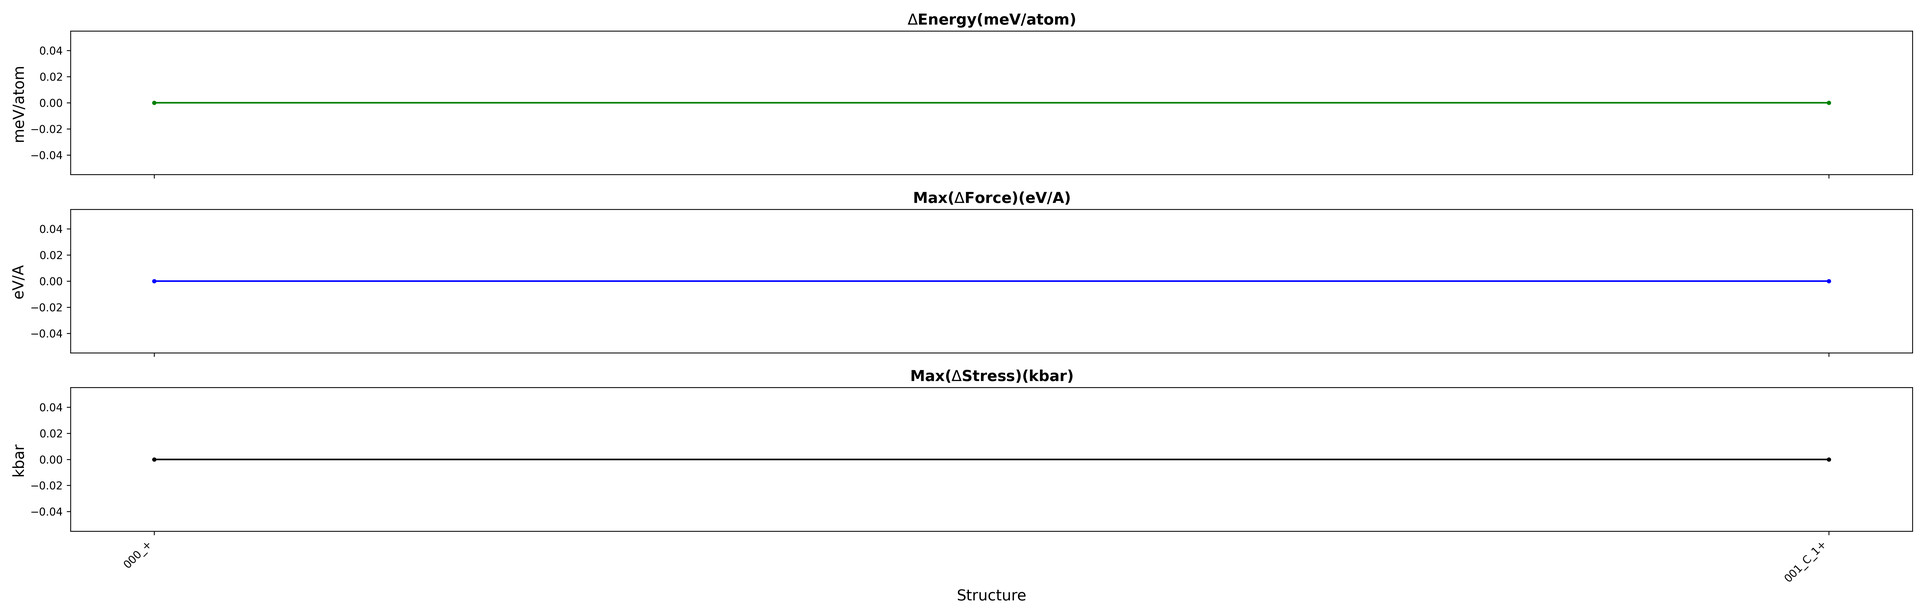
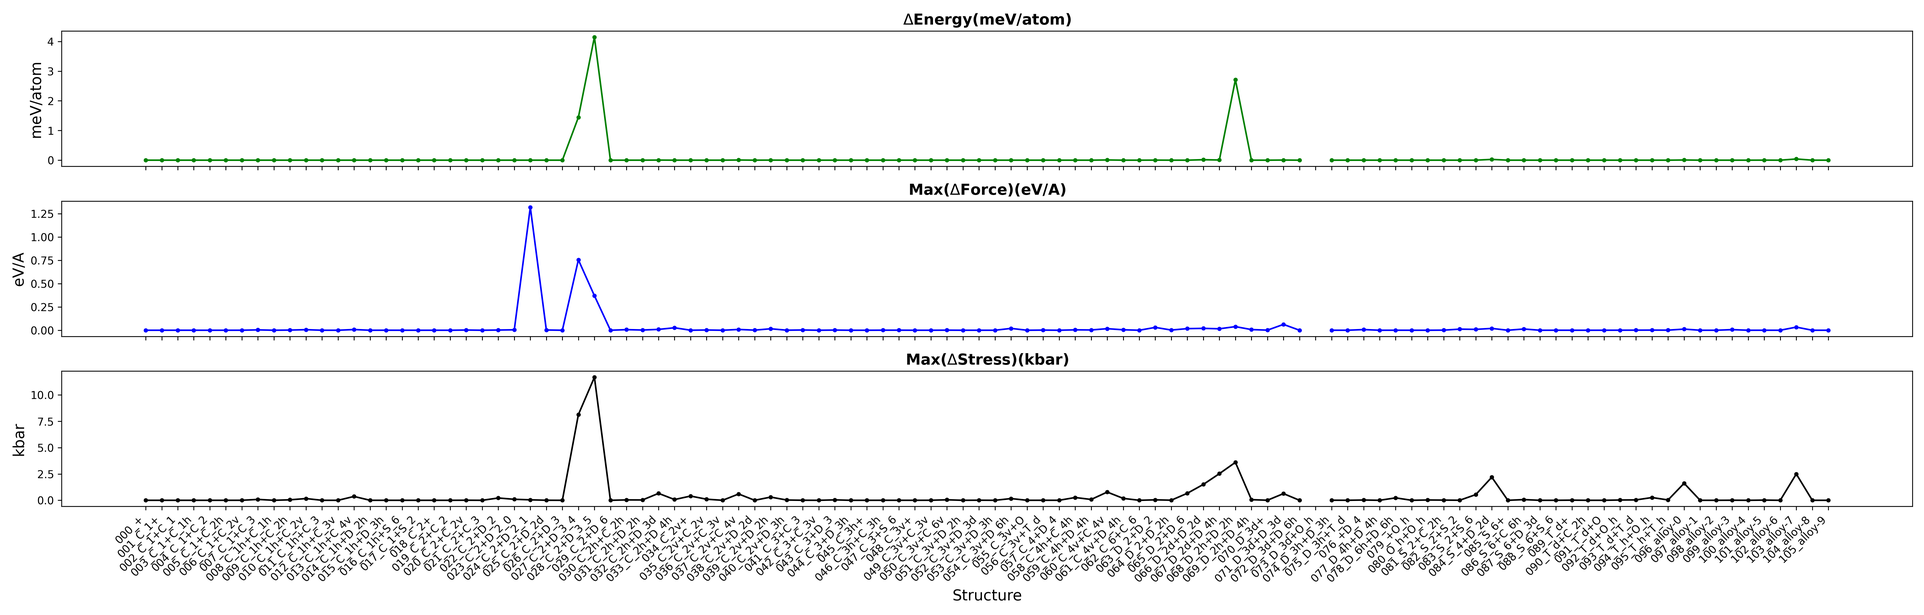
update alloy symmetry

diff --git a/results/alloy/symmetry.html b/results/alloy/symmetry.html
@@ -100,8 +100,8 @@
 <body>
 	<table id="keys">
 		<tr><td><strong>Test_date</strong></td><td>:</td><td>2023-12-26</td></tr>
-		<tr><td><strong>Version</strong></td><td>:</td><td>v3.5.0(64201d7 (Mon Dec 25 11:16:53 2023 +0800))</td></tr>
-		<tr><td><strong>Job_address</strong></td><td>:</td><td><a href="https://labs.dp.tech/projects/abacustest/?request=GET%3A%2Fapplications%2Fabacustest%2Fjobs%2Fsched-abacustest-alloy-symm-ca729d">link</a></td></tr>
+		<tr><td><strong>Version</strong></td><td>:</td><td>v3.5.0(f44ade3 (Tue Dec 26 10:13:45 2023 +0800))</td></tr>
+		<tr><td><strong>Job_address</strong></td><td>:</td><td><a href="https://labs.dp.tech/projects/abacustest/?request=GET%3A%2Fapplications%2Fabacustest%2Fjobs%2Fsched-abacustest-alloy-symm-fed85d">link</a></td></tr>
 		<tr><td><strong>Targets</strong></td><td>:</td><td>symmetry on VS symmetry off</td></tr>
 		<tr><td><strong>Datasets</strong></td><td>:</td><td><a href="https://labs.dp.tech/projects/abacustest/?request=GET%3A%2Fapplications%2Fabacustest%2Fdatasets%2Falloy">link</a></td></tr>
 		<tr><td><strong>Properties</strong></td><td>:</td><td>energy/force/stress/irreducible k-point/point group</td></tr>
@@ -119,7 +119,7 @@
     </div>
     <div class="imagetitle">Figure 1. The energy/force/stress difference between symmetry on and off.</div>
 	<div class="tabletitle">Table 1. the K points and irreducible K points, and point groups and point group in space groups, as well as the Energy/Force/Virial/Stress difference with closed symmetry analysis.</div>
-	<div class="head2">Pass/Total: <font color="green">2/2 (100.00%)</font></div>
+	<div class="head2">Pass/Total: <font color="red">101/106 (95.28%)</font></div>
 
     <table border="2px">
         <tbody>
@@ -130,22 +130,22 @@
             </tr>
         <tr>
                 <td>NormalEnd</td>
-                <td style="color:green">2/2</td> 
+                <td style="color:red">105/106</td> 
                 <td>bool(x)</td>
             </tr>
         <tr>
                 <td>&Delta;E/atom(meV)</td>
-                <td style="color:green">2/2</td> 
+                <td style="color:red">102/105</td> 
                 <td>x < 1</td>
             </tr>
         <tr>
                 <td>max(&Delta;F)(eV/A)</td>
-                <td style="color:green">2/2</td> 
+                <td style="color:red">102/105</td> 
                 <td>x < 0.1</td>
             </tr>
         <tr>
                 <td>max(&Delta;S)(kbar)</td>
-                <td style="color:green">2/2</td> 
+                <td style="color:red">104/105</td> 
                 <td>x < 10</td>
             </tr>
         </tbody>
@@ -156,6 +156,110 @@
 		<thead><tr><th>example</th><th>NormalEnd</th><th>&Delta;E/atom(meV)</th><th>max(&Delta;F)(eV/A)</th><th>max(&Delta;S)(kbar)</th><th>max(&Delta;V)(eV/atom)</th><th>KPoints</th><th>IBZK</th><th>PointGroup</th><th>PointGroupInSpaceGroup</th></tr></thead>
 		<tbody>			<tr><td>000_+</td><td><font color="green">True</font></td><td><font color="green">0.00e+00</font></td><td><font color="green">0.00e+00</font></td><td><font color="green">0.00e+00</font></td><td>0.00e+00</td><td>125</td><td>63</td><td>C_1</td><td>C_1</td></tr>
 			<tr><td>001_C_1+</td><td><font color="green">True</font></td><td><font color="green">0.00e+00</font></td><td><font color="green">0.00e+00</font></td><td><font color="green">0.00e+00</font></td><td>0.00e+00</td><td>64</td><td>36</td><td>C_1</td><td>C_1</td></tr>
+			<tr><td>002_C_1+C_1</td><td><font color="green">True</font></td><td><font color="green">4.41e-08</font></td><td><font color="green">1.73e-04</font></td><td><font color="green">2.03e-04</font></td><td>1.53e-06</td><td>125</td><td>63</td><td>C_1</td><td>C_1</td></tr>
+			<tr><td>003_C_1+C_1h</td><td><font color="green">True</font></td><td><font color="green">2.27e-10</font></td><td><font color="green">0.00e+00</font></td><td><font color="green">5.80e-09</font></td><td>7.40e-11</td><td>60</td><td>24</td><td>C_1</td><td>C_1h</td></tr>
+			<tr><td>004_C_1+C_2</td><td><font color="green">True</font></td><td><font color="green">2.27e-10</font></td><td><font color="green">0.00e+00</font></td><td><font color="green">1.00e-10</font></td><td>1.52e-12</td><td>96</td><td>52</td><td>C_1</td><td>C_1</td></tr>
+			<tr><td>005_C_1+C_2h</td><td><font color="green">True</font></td><td><font color="green">5.68e-11</font></td><td><font color="green">0.00e+00</font></td><td><font color="green">0.00e+00</font></td><td>0.00e+00</td><td>96</td><td>52</td><td>C_1</td><td>C_1</td></tr>
+			<tr><td>006_C_1+C_2v</td><td><font color="green">True</font></td><td><font color="green">2.19e-06</font></td><td><font color="green">1.70e-04</font></td><td><font color="green">1.94e-03</font></td><td>2.92e-05</td><td>36</td><td>15</td><td>C_1</td><td>C_1h</td></tr>
+			<tr><td>007_C_1+C_3</td><td><font color="green">True</font></td><td><font color="green">3.50e-05</font></td><td><font color="green">3.85e-03</font></td><td><font color="green">0.08</font></td><td>6.53e-04</td><td>64</td><td>14</td><td>C_1</td><td>C_3</td></tr>
+			<tr><td>008_C_1h+C_1h</td><td><font color="green">True</font></td><td><font color="green">1.71e-10</font></td><td><font color="green">0.00e+00</font></td><td><font color="green">0.00e+00</font></td><td>0.00e+00</td><td>54</td><td>28</td><td>C_1</td><td>C_1</td></tr>
+			<tr><td>009_C_1h+C_2h</td><td><font color="green">True</font></td><td><font color="green">6.62e-07</font></td><td><font color="green">1.75e-03</font></td><td><font color="green">0.05</font></td><td>5.22e-04</td><td>64</td><td>30</td><td>C_1h</td><td>C_1h</td></tr>
+			<tr><td>010_C_1h+C_2v</td><td><font color="green">True</font></td><td><font color="green">4.81e-05</font></td><td><font color="green">5.94e-03</font></td><td><font color="green">0.16</font></td><td>1.76e-03</td><td>98</td><td>32</td><td>C_1h</td><td>C_2v</td></tr>
+			<tr><td>011_C_1h+C_3</td><td><font color="green">True</font></td><td><font color="green">0.00e+00</font></td><td><font color="green">0.00e+00</font></td><td><font color="green">0.00e+00</font></td><td>0.00e+00</td><td>72</td><td>40</td><td>C_1</td><td>C_1</td></tr>
+			<tr><td>012_C_1h+C_3v</td><td><font color="green">True</font></td><td><font color="green">0.00e+00</font></td><td><font color="green">0.00e+00</font></td><td><font color="green">0.00e+00</font></td><td>0.00e+00</td><td>64</td><td>36</td><td>C_1</td><td>C_1</td></tr>
+			<tr><td>013_C_1h+C_4v</td><td><font color="green">True</font></td><td><font color="green">4.62e-05</font></td><td><font color="green">7.37e-03</font></td><td><font color="green">0.36</font></td><td>4.40e-03</td><td>48</td><td>12</td><td>C_1h</td><td>C_4v</td></tr>
+			<tr><td>014_C_1h+D_2h</td><td><font color="green">True</font></td><td><font color="green">0.00e+00</font></td><td><font color="green">0.00e+00</font></td><td><font color="green">0.00e+00</font></td><td>0.00e+00</td><td>75</td><td>38</td><td>C_1h</td><td>C_1h</td></tr>
+			<tr><td>015_C_1h+D_3h</td><td><font color="green">True</font></td><td><font color="green">5.05e-05</font></td><td><font color="green">2.88e-04</font></td><td><font color="green">7.68e-04</font></td><td>1.10e-05</td><td>36</td><td>12</td><td>C_1</td><td>C_2v</td></tr>
+			<tr><td>016_C_1h+S_6</td><td><font color="green">True</font></td><td><font color="green">8.55e-05</font></td><td><font color="green">4.33e-06</font></td><td><font color="green">2.88e-05</font></td><td>4.24e-07</td><td>36</td><td>15</td><td>C_1h</td><td>C_1h</td></tr>
+			<tr><td>017_C_1+S_2</td><td><font color="green">True</font></td><td><font color="green">1.14e-10</font></td><td><font color="green">0.00e+00</font></td><td><font color="green">1.00e-10</font></td><td>1.15e-12</td><td>100</td><td>51</td><td>C_1</td><td>C_1</td></tr>
+			<tr><td>018_C_2+</td><td><font color="green">True</font></td><td><font color="green">1.14e-10</font></td><td><font color="green">0.00e+00</font></td><td><font color="green">1.00e-10</font></td><td>1.03e-12</td><td>64</td><td>36</td><td>C_1</td><td>C_1</td></tr>
+			<tr><td>019_C_2+C_2</td><td><font color="green">True</font></td><td><font color="green">3.43e-07</font></td><td><font color="green">1.00e-10</font></td><td><font color="green">7.39e-08</font></td><td>6.69e-10</td><td>125</td><td>63</td><td>C_1</td><td>C_1</td></tr>
+			<tr><td>020_C_2+C_2v</td><td><font color="green">True</font></td><td><font color="green">9.44e-05</font></td><td><font color="green">2.14e-03</font></td><td><font color="green">7.55e-03</font></td><td>1.91e-04</td><td>27</td><td>8</td><td>C_2</td><td>C_2v</td></tr>
+			<tr><td>021_C_2+C_3</td><td><font color="green">True</font></td><td><font color="green">2.27e-10</font></td><td><font color="green">0.00e+00</font></td><td><font color="green">0.00e+00</font></td><td>0.00e+00</td><td>125</td><td>63</td><td>C_1</td><td>C_1</td></tr>
+			<tr><td>022_C_2+D_2</td><td><font color="green">True</font></td><td><font color="green">4.00e-05</font></td><td><font color="green">2.17e-03</font></td><td><font color="green">0.22</font></td><td>1.72e-03</td><td>75</td><td>26</td><td>C_2</td><td>C_2</td></tr>
+			<tr><td>023_C_2+D_2_0</td><td><font color="green">True</font></td><td><font color="green">9.79e-05</font></td><td><font color="green">4.65e-03</font></td><td><font color="green">0.10</font></td><td>7.52e-04</td><td>486</td><td>164</td><td>C_2</td><td>C_2</td></tr>
+			<tr><td>024_C_2+D_2_1</td><td><font color="green">True</font></td><td><font color="green">4.12e-04</font></td><td><font color="red">1.32</font></td><td><font color="green">0.04</font></td><td>3.89e-04</td><td>486</td><td>100</td><td>C_2</td><td>D_2</td></tr>
+			<tr><td>025_C_2+D_2d</td><td><font color="green">True</font></td><td><font color="green">1.87e-06</font></td><td><font color="green">2.49e-03</font></td><td><font color="green">4.51e-03</font></td><td>5.73e-05</td><td>48</td><td>12</td><td>C_2</td><td>D_2d</td></tr>
+			<tr><td>026_C_2+D_3</td><td><font color="green">True</font></td><td><font color="green">3.64e-09</font></td><td><font color="green">0.00e+00</font></td><td><font color="green">4.00e-10</font></td><td>6.03e-12</td><td>64</td><td>36</td><td>C_1</td><td>C_1</td></tr>
+			<tr><td>027_C_2+D_3_4</td><td><font color="green">True</font></td><td><font color="red">1.44</font></td><td><font color="red">0.76</font></td><td><font color="green">8.13</font></td><td>0.08</td><td>320</td><td>93</td><td>C_2</td><td>C_2</td></tr>
+			<tr><td>028_C_2+D_3_5</td><td><font color="green">True</font></td><td><font color="red">4.14</font></td><td><font color="red">0.37</font></td><td><font color="red">11.67</font></td><td>0.10</td><td>486</td><td>142</td><td>C_2</td><td>C_2</td></tr>
+			<tr><td>029_C_2+D_6</td><td><font color="green">True</font></td><td><font color="green">0.00e+00</font></td><td><font color="green">0.00e+00</font></td><td><font color="green">0.00e+00</font></td><td>0.00e+00</td><td>75</td><td>38</td><td>C_1</td><td>C_1</td></tr>
+			<tr><td>030_C_2h+C_2h</td><td><font color="green">True</font></td><td><font color="green">3.78e-05</font></td><td><font color="green">6.23e-03</font></td><td><font color="green">0.04</font></td><td>5.79e-04</td><td>45</td><td>15</td><td>C_2h</td><td>C_2h</td></tr>
+			<tr><td>031_C_2h+D_2h</td><td><font color="green">True</font></td><td><font color="green">2.24e-05</font></td><td><font color="green">2.18e-03</font></td><td><font color="green">0.03</font></td><td>4.20e-04</td><td>64</td><td>21</td><td>C_2h</td><td>D_2h</td></tr>
+			<tr><td>032_C_2h+D_3d</td><td><font color="green">True</font></td><td><font color="green">3.36e-03</font></td><td><font color="green">9.11e-03</font></td><td><font color="green">0.66</font></td><td>6.73e-03</td><td>80</td><td>42</td><td>C_2h</td><td>D_3d</td></tr>
+			<tr><td>033_C_2h+D_4h</td><td><font color="green">True</font></td><td><font color="green">9.84e-05</font></td><td><font color="green">0.03</font></td><td><font color="green">0.07</font></td><td>1.02e-03</td><td>75</td><td>12</td><td>C_2h</td><td>D_4h</td></tr>
+			<tr><td>034_C_2v+</td><td><font color="green">True</font></td><td><font color="green">1.67e-04</font></td><td><font color="green">1.80e-04</font></td><td><font color="green">0.40</font></td><td>4.81e-03</td><td>64</td><td>30</td><td>C_1h</td><td>C_1h</td></tr>
+			<tr><td>035_C_2v+C_2v</td><td><font color="green">True</font></td><td><font color="green">6.50e-05</font></td><td><font color="green">2.45e-03</font></td><td><font color="green">0.10</font></td><td>8.85e-04</td><td>80</td><td>21</td><td>C_2v</td><td>C_2v</td></tr>
+			<tr><td>036_C_2v+C_3v</td><td><font color="green">True</font></td><td><font color="green">6.82e-10</font></td><td><font color="green">0.00e+00</font></td><td><font color="green">1.00e-10</font></td><td>1.21e-12</td><td>72</td><td>38</td><td>C_1</td><td>C_1</td></tr>
+			<tr><td>037_C_2v+C_4v</td><td><font color="green">True</font></td><td><font color="green">5.51e-03</font></td><td><font color="green">8.43e-03</font></td><td><font color="green">0.60</font></td><td>8.71e-03</td><td>75</td><td>24</td><td>C_2v</td><td>C_4v</td></tr>
+			<tr><td>038_C_2v+D_2d</td><td><font color="green">True</font></td><td><font color="green">5.48e-05</font></td><td><font color="green">1.11e-03</font></td><td><font color="green">1.33e-03</font></td><td>1.71e-05</td><td>32</td><td>12</td><td>C_2v</td><td>D_2d</td></tr>
+			<tr><td>039_C_2v+D_2h</td><td><font color="green">True</font></td><td><font color="green">2.29e-03</font></td><td><font color="green">0.02</font></td><td><font color="green">0.30</font></td><td>2.94e-03</td><td>80</td><td>33</td><td>C_2v</td><td>D_2h</td></tr>
+			<tr><td>040_C_2v+D_3h</td><td><font color="green">True</font></td><td><font color="green">6.35e-06</font></td><td><font color="green">5.72e-04</font></td><td><font color="green">0.03</font></td><td>3.68e-04</td><td>64</td><td>30</td><td>C_1h</td><td>C_1h</td></tr>
+			<tr><td>041_C_3+C_3</td><td><font color="green">True</font></td><td><font color="green">4.84e-05</font></td><td><font color="green">2.64e-03</font></td><td><font color="green">4.91e-03</font></td><td>5.26e-05</td><td>64</td><td>14</td><td>C_3</td><td>C_3</td></tr>
+			<tr><td>042_C_3+C_3v</td><td><font color="green">True</font></td><td><font color="green">0.00e+00</font></td><td><font color="green">0.00e+00</font></td><td><font color="green">0.00e+00</font></td><td>0.00e+00</td><td>196</td><td>99</td><td>C_1</td><td>C_1</td></tr>
+			<tr><td>043_C_3+D_3</td><td><font color="green">True</font></td><td><font color="green">4.27e-06</font></td><td><font color="green">1.74e-03</font></td><td><font color="green">0.04</font></td><td>4.07e-04</td><td>64</td><td>13</td><td>C_3</td><td>D_3</td></tr>
+			<tr><td>044_C_3+D_3h</td><td><font color="green">True</font></td><td><font color="green">6.82e-10</font></td><td><font color="green">0.00e+00</font></td><td><font color="green">1.00e-10</font></td><td>1.22e-12</td><td>196</td><td>99</td><td>C_1</td><td>C_1</td></tr>
+			<tr><td>045_C_3h+</td><td><font color="green">True</font></td><td><font color="green">0.00e+00</font></td><td><font color="green">0.00e+00</font></td><td><font color="green">0.00e+00</font></td><td>0.00e+00</td><td>64</td><td>36</td><td>C_1h</td><td>C_1h</td></tr>
+			<tr><td>046_C_3h+C_3h</td><td><font color="green">True</font></td><td><font color="green">2.82e-07</font></td><td><font color="green">6.41e-04</font></td><td><font color="green">1.96e-03</font></td><td>2.60e-05</td><td>45</td><td>15</td><td>C_1h</td><td>C_1h</td></tr>
+			<tr><td>047_C_3+S_6</td><td><font color="green">True</font></td><td><font color="green">1.65e-04</font></td><td><font color="green">7.00e-04</font></td><td><font color="green">1.62e-03</font></td><td>1.57e-05</td><td>120</td><td>42</td><td>C_1</td><td>C_1h</td></tr>
+			<tr><td>048_C_3v+</td><td><font color="green">True</font></td><td><font color="green">4.18e-08</font></td><td><font color="green">0.00e+00</font></td><td><font color="green">2.68e-07</font></td><td>2.24e-09</td><td>125</td><td>63</td><td>C_1</td><td>C_1</td></tr>
+			<tr><td>049_C_3v+C_3v</td><td><font color="green">True</font></td><td><font color="green">1.24e-05</font></td><td><font color="green">7.49e-05</font></td><td><font color="green">4.85e-03</font></td><td>8.66e-05</td><td>64</td><td>13</td><td>C_3v</td><td>C_3v</td></tr>
+			<tr><td>050_C_3v+C_6v</td><td><font color="green">True</font></td><td><font color="green">1.01e-04</font></td><td><font color="green">8.83e-04</font></td><td><font color="green">0.05</font></td><td>4.95e-04</td><td>75</td><td>10</td><td>C_3v</td><td>C_6v</td></tr>
+			<tr><td>051_C_3v+D_2h</td><td><font color="green">True</font></td><td><font color="green">7.96e-10</font></td><td><font color="green">0.00e+00</font></td><td><font color="green">1.00e-10</font></td><td>1.05e-12</td><td>125</td><td>63</td><td>C_1</td><td>C_1</td></tr>
+			<tr><td>052_C_3v+D_3d</td><td><font color="green">True</font></td><td><font color="green">3.01e-05</font></td><td><font color="green">5.51e-05</font></td><td><font color="green">8.96e-03</font></td><td>1.60e-04</td><td>64</td><td>13</td><td>C_3v</td><td>C_3v</td></tr>
+			<tr><td>053_C_3v+D_3h</td><td><font color="green">True</font></td><td><font color="green">3.64e-09</font></td><td><font color="green">2.00e-10</font></td><td><font color="green">6.00e-10</font></td><td>1.07e-11</td><td>72</td><td>40</td><td>C_1</td><td>C_1</td></tr>
+			<tr><td>054_C_3v+D_6h</td><td><font color="green">True</font></td><td><font color="green">1.29e-04</font></td><td><font color="green">0.02</font></td><td><font color="green">0.16</font></td><td>2.88e-03</td><td>72</td><td>40</td><td>C_1</td><td>S_2</td></tr>
+			<tr><td>055_C_3v+O</td><td><font color="green">True</font></td><td><font color="green">2.77e-06</font></td><td><font color="green">1.85e-05</font></td><td><font color="green">1.03e-03</font></td><td>1.78e-05</td><td>64</td><td>13</td><td>C_3v</td><td>C_3v</td></tr>
+			<tr><td>056_C_3v+T_d</td><td><font color="green">True</font></td><td><font color="green">3.25e-05</font></td><td><font color="green">1.47e-03</font></td><td><font color="green">2.36e-03</font></td><td>2.20e-05</td><td>125</td><td>10</td><td>C_3v</td><td>T_d</td></tr>
+			<tr><td>057_C_4+D_4</td><td><font color="green">True</font></td><td><font color="green">3.00e-08</font></td><td><font color="green">7.79e-06</font></td><td><font color="green">2.30e-03</font></td><td>3.42e-05</td><td>64</td><td>13</td><td>C_4</td><td>D_4</td></tr>
+			<tr><td>058_C_4h+C_4h</td><td><font color="green">True</font></td><td><font color="green">1.47e-05</font></td><td><font color="green">4.22e-03</font></td><td><font color="green">0.26</font></td><td>2.34e-03</td><td>45</td><td>9</td><td>C_4h</td><td>D_4h</td></tr>
+			<tr><td>059_C_4h+D_4h</td><td><font color="green">True</font></td><td><font color="green">1.26e-05</font></td><td><font color="green">3.01e-03</font></td><td><font color="green">0.08</font></td><td>9.32e-04</td><td>64</td><td>13</td><td>C_4h</td><td>D_4h</td></tr>
+			<tr><td>060_C_4v+C_4v</td><td><font color="green">True</font></td><td><font color="green">7.21e-03</font></td><td><font color="green">0.02</font></td><td><font color="green">0.78</font></td><td>8.49e-03</td><td>144</td><td>40</td><td>C_4v</td><td>C_4v</td></tr>
+			<tr><td>061_C_4v+D_4h</td><td><font color="green">True</font></td><td><font color="green">1.09e-05</font></td><td><font color="green">4.90e-03</font></td><td><font color="green">0.18</font></td><td>1.49e-03</td><td>72</td><td>20</td><td>C_4v</td><td>D_4h</td></tr>
+			<tr><td>062_C_6+C_6</td><td><font color="green">True</font></td><td><font color="green">1.24e-09</font></td><td><font color="green">0.00e+00</font></td><td><font color="green">9.00e-10</font></td><td>1.05e-11</td><td>64</td><td>36</td><td>C_1</td><td>C_1</td></tr>
+			<tr><td>063_D_2+D_2</td><td><font color="green">True</font></td><td><font color="green">2.03e-03</font></td><td><font color="green">0.03</font></td><td><font color="green">0.04</font></td><td>3.81e-04</td><td>100</td><td>33</td><td>D_2</td><td>D_2</td></tr>
+			<tr><td>064_D_2+D_2h</td><td><font color="green">True</font></td><td><font color="green">1.58e-06</font></td><td><font color="green">2.05e-03</font></td><td><font color="green">9.75e-03</font></td><td>1.45e-04</td><td>27</td><td>8</td><td>D_2</td><td>D_2h</td></tr>
+			<tr><td>065_D_2+D_6</td><td><font color="green">True</font></td><td><font color="green">4.56e-05</font></td><td><font color="green">0.02</font></td><td><font color="green">0.67</font></td><td>6.17e-03</td><td>48</td><td>14</td><td>D_2</td><td>D_2</td></tr>
+			<tr><td>066_D_2d+D_2d</td><td><font color="green">True</font></td><td><font color="green">0.02</font></td><td><font color="green">0.02</font></td><td><font color="green">1.51</font></td><td>0.01</td><td>150</td><td>48</td><td>D_2d</td><td>D_2d</td></tr>
+			<tr><td>067_D_2d+D_4h</td><td><font color="green">True</font></td><td><font color="green">5.56e-03</font></td><td><font color="green">0.02</font></td><td><font color="green">2.53</font></td><td>0.03</td><td>150</td><td>48</td><td>D_2d</td><td>D_4h</td></tr>
+			<tr><td>068_D_2h+D_2h</td><td><font color="green">True</font></td><td><font color="red">2.71</font></td><td><font color="green">0.04</font></td><td><font color="green">3.60</font></td><td>0.04</td><td>98</td><td>32</td><td>D_2h</td><td>D_2h</td></tr>
+			<tr><td>069_D_2h+D_4h</td><td><font color="green">True</font></td><td><font color="green">7.83e-05</font></td><td><font color="green">7.01e-03</font></td><td><font color="green">0.06</font></td><td>1.33e-03</td><td>45</td><td>9</td><td>D_2h</td><td>D_4h</td></tr>
+			<tr><td>070_D_3d+</td><td><font color="green">True</font></td><td><font color="green">2.81e-05</font></td><td><font color="green">9.63e-04</font></td><td><font color="green">6.21e-03</font></td><td>5.99e-05</td><td>125</td><td>10</td><td>D_3d</td><td>O_h</td></tr>
+			<tr><td>071_D_3d+D_3d</td><td><font color="green">True</font></td><td><font color="green">4.07e-03</font></td><td><font color="green">0.06</font></td><td><font color="green">0.63</font></td><td>5.94e-03</td><td>98</td><td>32</td><td>D_3d</td><td>D_3d</td></tr>
+			<tr><td>072_D_3d+D_6h</td><td><font color="green">True</font></td><td><font color="green">9.09e-10</font></td><td><font color="green">0.00e+00</font></td><td><font color="green">1.00e-10</font></td><td>8.84e-13</td><td>64</td><td>36</td><td>C_1</td><td>C_1</td></tr>
+			<tr><td>073_D_3d+O_h</td><td><font color="red">False</font></td><td><font color="red">---</font></td><td><font color="red">---</font></td><td><font color="red">---</font></td><td>---</td><td>80</td><td>36</td><td>C_2</td><td>C_4h</td></tr>
+			<tr><td>074_D_3h+D_3h</td><td><font color="green">True</font></td><td><font color="green">9.75e-06</font></td><td><font color="green">1.52e-04</font></td><td><font color="green">8.05e-03</font></td><td>1.09e-04</td><td>96</td><td>28</td><td>C_2v</td><td>C_2v</td></tr>
+			<tr><td>075_D_3h+T_d</td><td><font color="green">True</font></td><td><font color="green">7.37e-06</font></td><td><font color="green">9.98e-05</font></td><td><font color="green">3.55e-03</font></td><td>5.84e-05</td><td>125</td><td>19</td><td>C_3v</td><td>C_3v</td></tr>
+			<tr><td>076_+D_4</td><td><font color="green">True</font></td><td><font color="green">7.44e-05</font></td><td><font color="green">7.00e-03</font></td><td><font color="green">0.03</font></td><td>2.34e-04</td><td>48</td><td>26</td><td>C_1</td><td>C_1</td></tr>
+			<tr><td>077_D_4h+D_4h</td><td><font color="green">True</font></td><td><font color="green">3.82e-08</font></td><td><font color="green">0.00e+00</font></td><td><font color="green">4.83e-04</font></td><td>3.86e-06</td><td>125</td><td>18</td><td>D_4h</td><td>D_4h</td></tr>
+			<tr><td>078_D_6h+D_6h</td><td><font color="green">True</font></td><td><font color="green">9.71e-05</font></td><td><font color="green">1.99e-04</font></td><td><font color="green">0.23</font></td><td>3.12e-03</td><td>64</td><td>12</td><td>D_6h</td><td>D_6h</td></tr>
+			<tr><td>079_+O_h</td><td><font color="green">True</font></td><td><font color="green">2.16e-07</font></td><td><font color="green">0.00e+00</font></td><td><font color="green">2.04e-07</font></td><td>1.10e-09</td><td>216</td><td>112</td><td>C_1</td><td>C_1</td></tr>
+			<tr><td>080_O_h+O_h</td><td><font color="green">True</font></td><td><font color="green">1.20e-06</font></td><td><font color="green">2.73e-05</font></td><td><font color="green">0.03</font></td><td>5.01e-04</td><td>125</td><td>10</td><td>O_h</td><td>O_h</td></tr>
+			<tr><td>081_S_2+C_2h</td><td><font color="green">True</font></td><td><font color="green">3.56e-06</font></td><td><font color="green">1.00e-03</font></td><td><font color="green">0.02</font></td><td>2.18e-04</td><td>48</td><td>18</td><td>S_2</td><td>D_2h</td></tr>
+			<tr><td>082_S_2+S_2</td><td><font color="green">True</font></td><td><font color="green">4.38e-05</font></td><td><font color="green">0.01</font></td><td><font color="green">6.18e-03</font></td><td>7.15e-05</td><td>45</td><td>12</td><td>S_2</td><td>D_2h</td></tr>
+			<tr><td>083_S_2+S_6</td><td><font color="green">True</font></td><td><font color="green">2.28e-04</font></td><td><font color="green">9.31e-03</font></td><td><font color="green">0.54</font></td><td>4.93e-03</td><td>80</td><td>41</td><td>S_2</td><td>D_2h</td></tr>
+			<tr><td>084_S_4+D_2d</td><td><font color="green">True</font></td><td><font color="green">0.03</font></td><td><font color="green">0.02</font></td><td><font color="green">2.19</font></td><td>0.02</td><td>80</td><td>27</td><td>S_4</td><td>D_2d</td></tr>
+			<tr><td>085_S_6+</td><td><font color="green">True</font></td><td><font color="green">7.98e-08</font></td><td><font color="green">3.00e-05</font></td><td><font color="green">5.85e-05</font></td><td>6.83e-07</td><td>48</td><td>26</td><td>C_1</td><td>C_1</td></tr>
+			<tr><td>086_S_6+C_6h</td><td><font color="green">True</font></td><td><font color="green">4.19e-06</font></td><td><font color="green">0.01</font></td><td><font color="green">0.07</font></td><td>9.74e-04</td><td>36</td><td>15</td><td>S_2</td><td>C_2h</td></tr>
+			<tr><td>087_S_6+D_3d</td><td><font color="green">True</font></td><td><font color="green">2.27e-10</font></td><td><font color="green">0.00e+00</font></td><td><font color="green">1.00e-10</font></td><td>1.34e-12</td><td>36</td><td>19</td><td>C_1</td><td>C_1</td></tr>
+			<tr><td>088_S_6+S_6</td><td><font color="green">True</font></td><td><font color="green">2.70e-06</font></td><td><font color="green">1.98e-04</font></td><td><font color="green">2.20e-04</font></td><td>3.26e-06</td><td>27</td><td>14</td><td>S_2</td><td>S_2</td></tr>
+			<tr><td>089_T_d+</td><td><font color="green">True</font></td><td><font color="green">6.94e-05</font></td><td><font color="green">6.25e-05</font></td><td><font color="green">0.01</font></td><td>2.59e-04</td><td>64</td><td>13</td><td>C_3v</td><td>C_3v</td></tr>
+			<tr><td>090_T_d+C_2h</td><td><font color="green">True</font></td><td><font color="green">4.55e-10</font></td><td><font color="green">0.00e+00</font></td><td><font color="green">1.00e-10</font></td><td>1.79e-12</td><td>64</td><td>36</td><td>C_1</td><td>C_1</td></tr>
+			<tr><td>091_T_d+O</td><td><font color="green">True</font></td><td><font color="green">2.07e-07</font></td><td><font color="green">9.69e-05</font></td><td><font color="green">4.52e-04</font></td><td>5.96e-06</td><td>125</td><td>19</td><td>C_3v</td><td>C_3v</td></tr>
+			<tr><td>092_T_d+O_h</td><td><font color="green">True</font></td><td><font color="green">3.25e-05</font></td><td><font color="green">5.49e-04</font></td><td><font color="green">0.03</font></td><td>5.18e-04</td><td>64</td><td>13</td><td>C_3v</td><td>C_3v</td></tr>
+			<tr><td>093_T_d+T_d</td><td><font color="green">True</font></td><td><font color="green">1.83e-06</font></td><td><font color="green">8.96e-04</font></td><td><font color="green">0.04</font></td><td>3.44e-04</td><td>125</td><td>10</td><td>T_d</td><td>T_d</td></tr>
+			<tr><td>094_T_h+O_h</td><td><font color="green">True</font></td><td><font color="green">3.84e-05</font></td><td><font color="green">1.44e-03</font></td><td><font color="green">0.26</font></td><td>2.86e-03</td><td>64</td><td>10</td><td>T_h</td><td>O_h</td></tr>
+			<tr><td>095_T_h+T_h</td><td><font color="green">True</font></td><td><font color="green">4.36e-06</font></td><td><font color="green">9.51e-04</font></td><td><font color="green">0.03</font></td><td>3.52e-04</td><td>64</td><td>11</td><td>T_h</td><td>T_h</td></tr>
+			<tr><td>096_alloy-0</td><td><font color="green">True</font></td><td><font color="green">5.88e-03</font></td><td><font color="green">0.01</font></td><td><font color="green">1.62</font></td><td>0.01</td><td>210</td><td>106</td><td>C_2h</td><td>C_2h</td></tr>
+			<tr><td>097_alloy-1</td><td><font color="green">True</font></td><td><font color="green">0.00e+00</font></td><td><font color="green">0.00e+00</font></td><td><font color="green">0.00e+00</font></td><td>0.00e+00</td><td>100</td><td>51</td><td>C_1h</td><td>C_1h</td></tr>
+			<tr><td>098_alloy-2</td><td><font color="green">True</font></td><td><font color="green">0.00e+00</font></td><td><font color="green">0.00e+00</font></td><td><font color="green">0.00e+00</font></td><td>0.00e+00</td><td>140</td><td>71</td><td>C_1</td><td>C_1</td></tr>
+			<tr><td>099_alloy-3</td><td><font color="green">True</font></td><td><font color="green">1.99e-05</font></td><td><font color="green">6.39e-03</font></td><td><font color="green">7.16e-03</font></td><td>1.01e-04</td><td>100</td><td>33</td><td>C_2h</td><td>C_2h</td></tr>
+			<tr><td>100_alloy-4</td><td><font color="green">True</font></td><td><font color="green">0.00e+00</font></td><td><font color="green">1.00e-10</font></td><td><font color="green">2.38e-08</font></td><td>4.02e-10</td><td>48</td><td>17</td><td>C_1h</td><td>C_1h</td></tr>
+			<tr><td>101_alloy-5</td><td><font color="green">True</font></td><td><font color="green">1.35e-03</font></td><td><font color="green">3.12e-05</font></td><td><font color="green">0.02</font></td><td>1.90e-04</td><td>125</td><td>27</td><td>C_2v</td><td>C_2v</td></tr>
+			<tr><td>102_alloy-6</td><td><font color="green">True</font></td><td><font color="green">0.00e+00</font></td><td><font color="green">0.00e+00</font></td><td><font color="green">0.00e+00</font></td><td>0.00e+00</td><td>100</td><td>51</td><td>C_1h</td><td>C_1h</td></tr>
+			<tr><td>103_alloy-7</td><td><font color="green">True</font></td><td><font color="green">0.04</font></td><td><font color="green">0.03</font></td><td><font color="green">2.50</font></td><td>0.04</td><td>100</td><td>33</td><td>D_4h</td><td>D_4h</td></tr>
+			<tr><td>104_alloy-8</td><td><font color="green">True</font></td><td><font color="green">0.00e+00</font></td><td><font color="green">0.00e+00</font></td><td><font color="green">0.00e+00</font></td><td>0.00e+00</td><td>100</td><td>51</td><td>C_1h</td><td>C_1h</td></tr>
+			<tr><td>105_alloy-9</td><td><font color="green">True</font></td><td><font color="green">0.00e+00</font></td><td><font color="green">0.00e+00</font></td><td><font color="green">0.00e+00</font></td><td>0.00e+00</td><td>100</td><td>51</td><td>C_1h</td><td>C_1h</td></tr>
 		</tbody>
 	</table>
 
